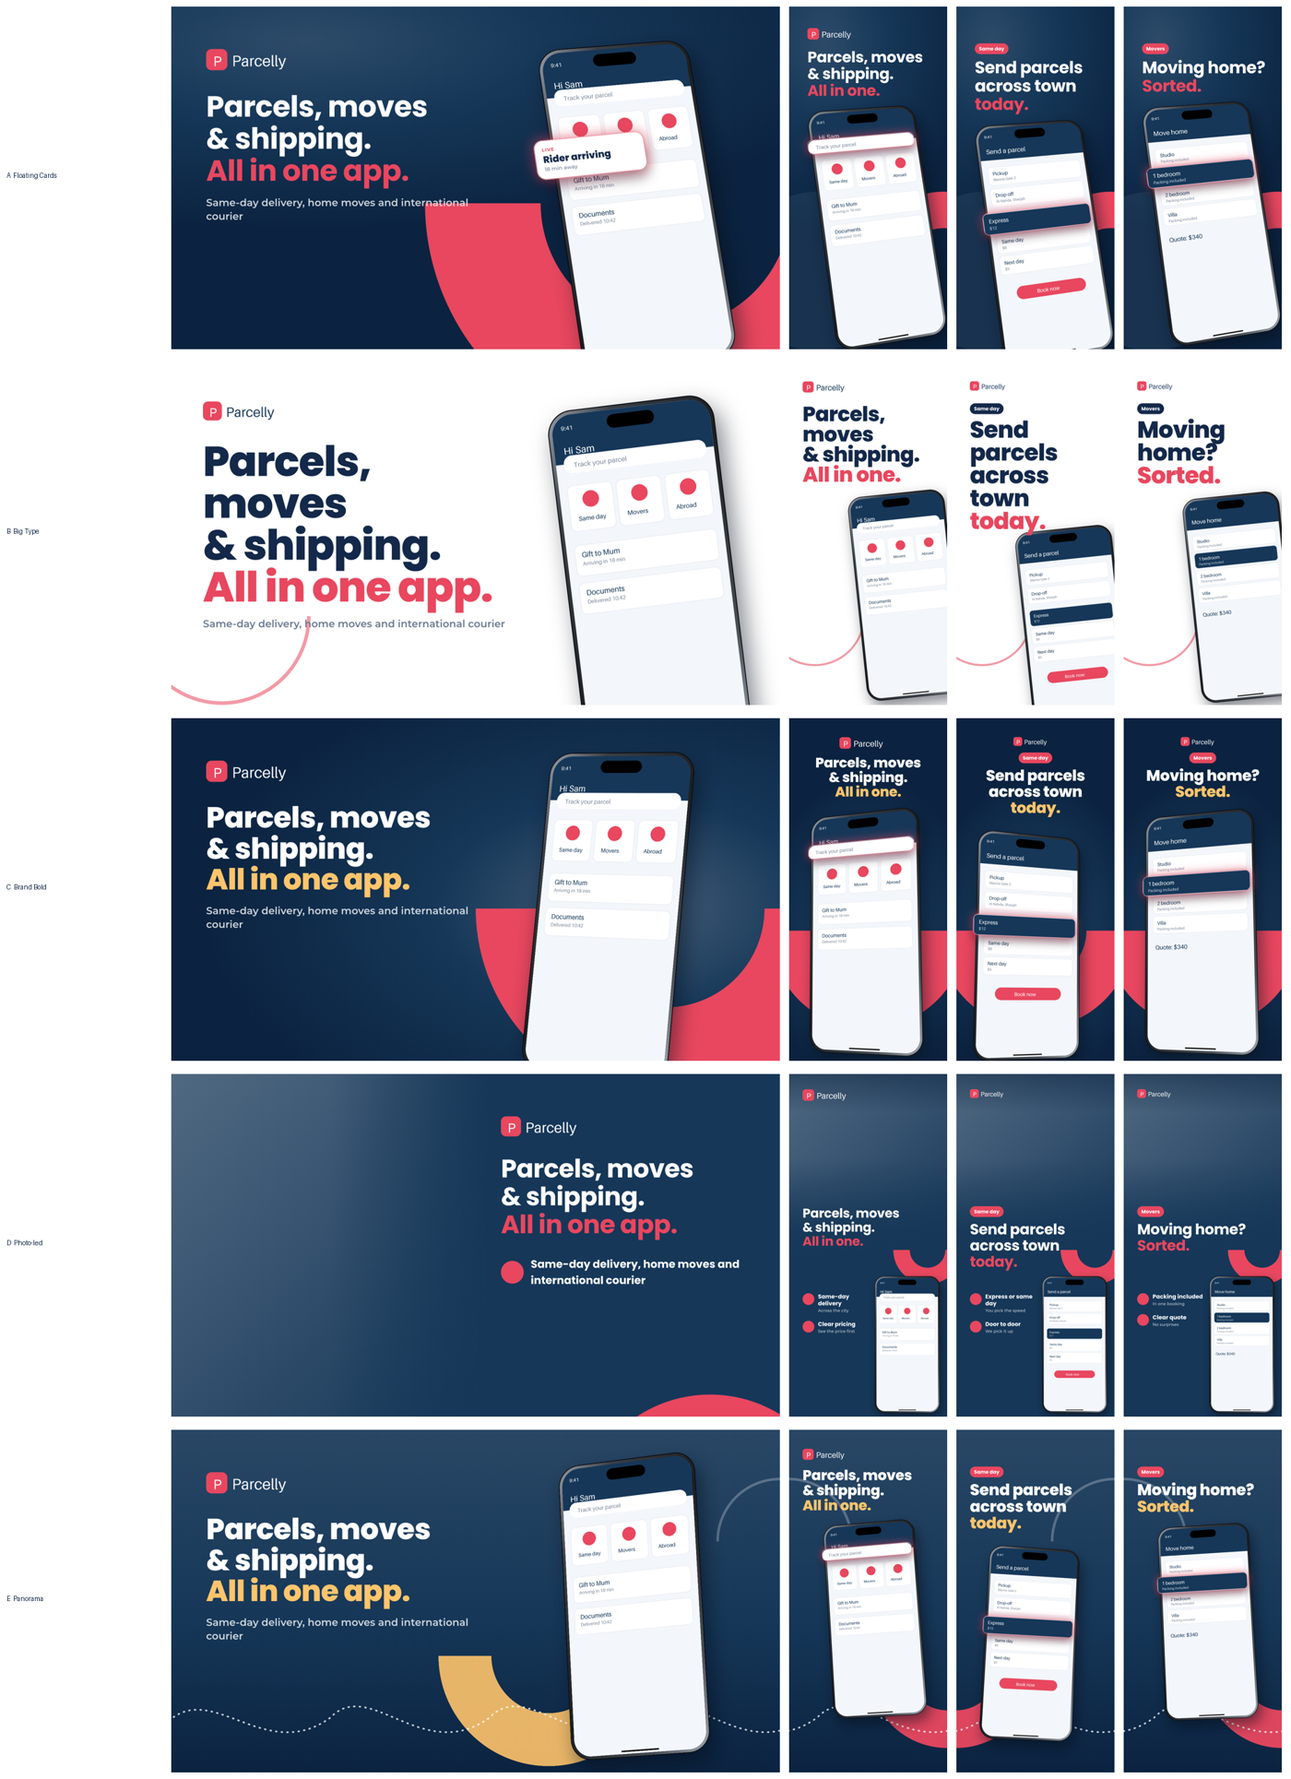
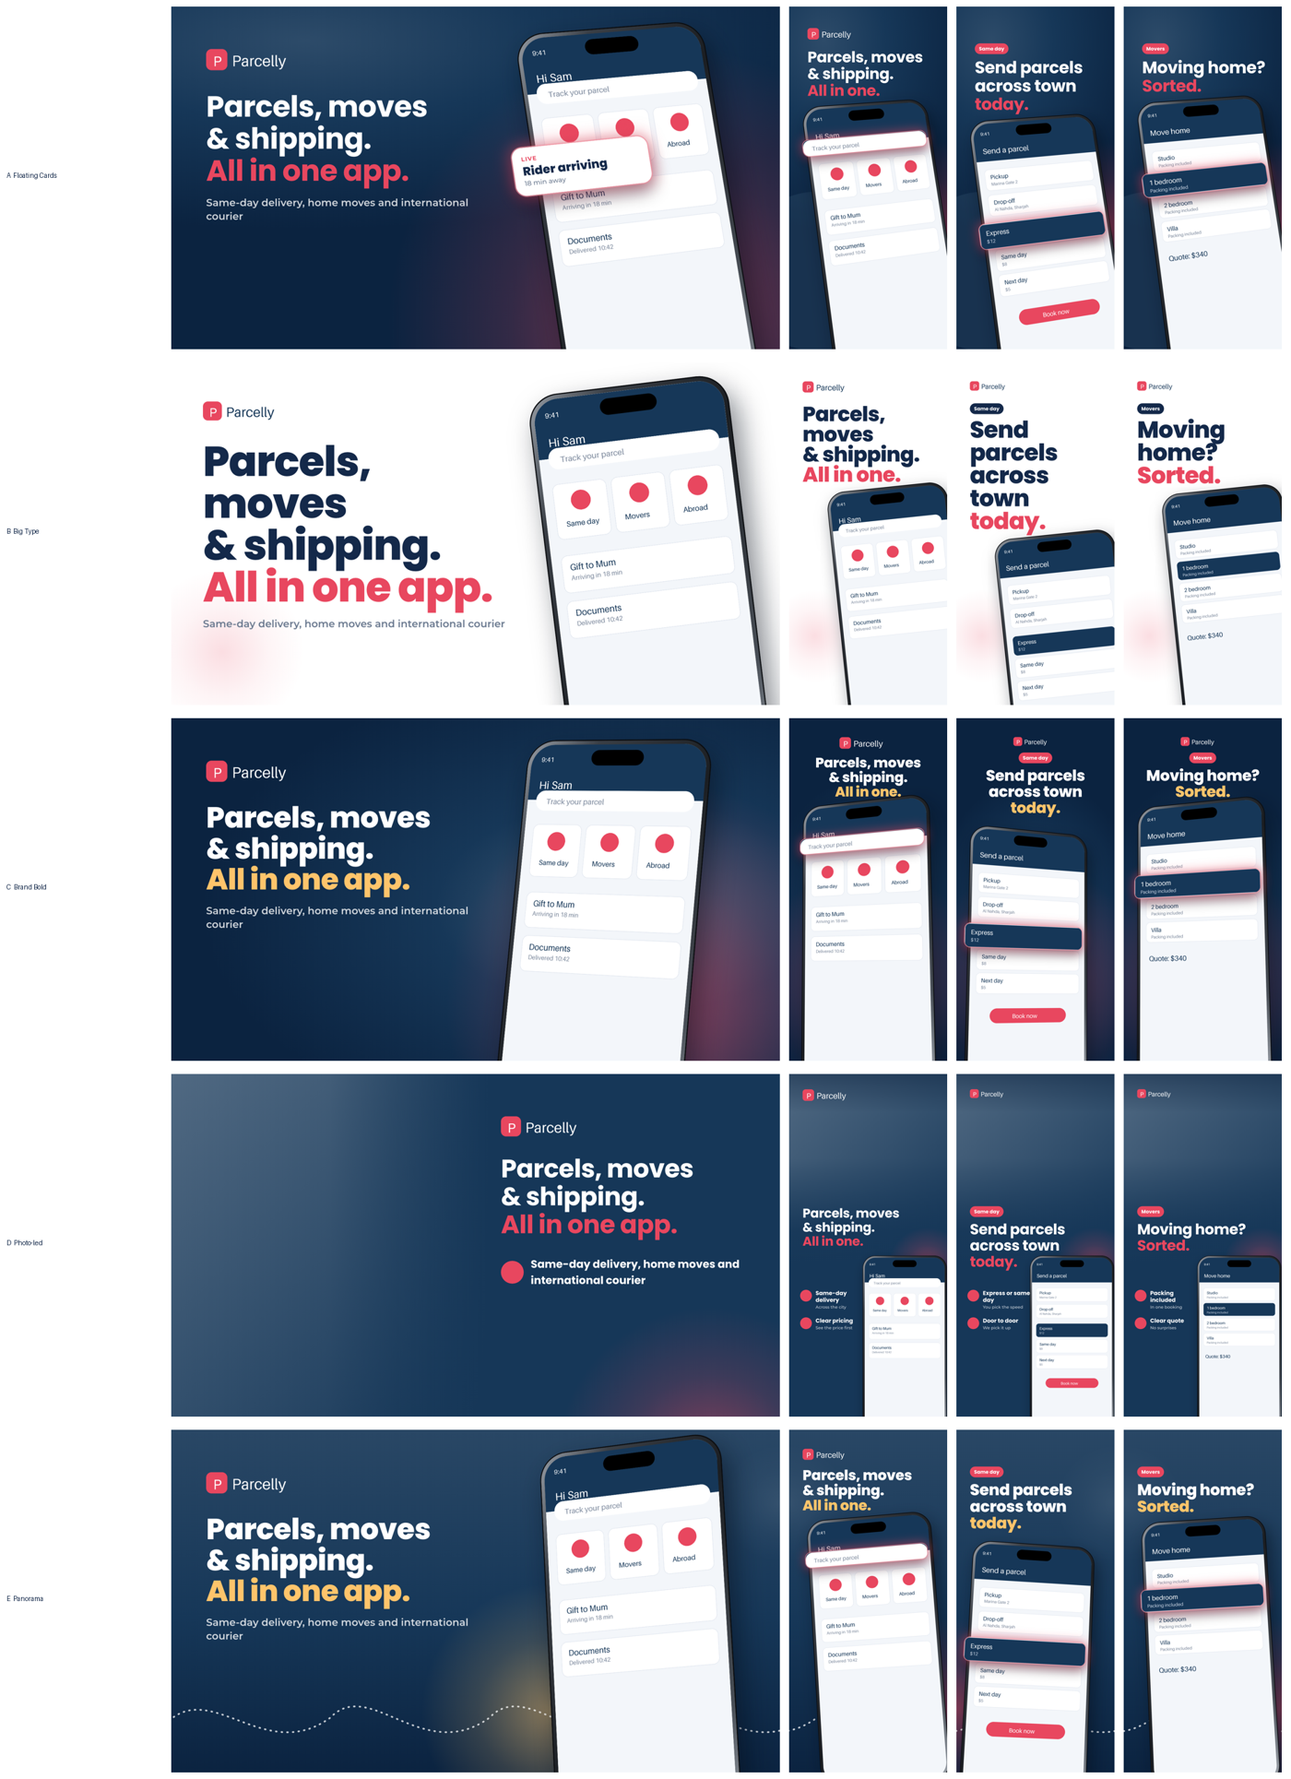
Brand-neutral design language intake, configurable motifs, larger phones
- Ask for Figma link, brand guidelines, logo, brand shapes and photos before designing
- Replace the fixed half-ring decoration with brand.motif: glow (default), blob, ring, dots, arc, none, custom
- Enlarge phones in every direction and landscape lead

diff --git a/engine/engine.js b/engine/engine.js
@@ -39,12 +39,27 @@
     : textCard(c, i)).join('');
   const phone3d = (f, x, y, s, ry, rx, rz, cards = true) => `<div class="stage" style="left:${x}px;top:${y}px"><div class="tilt" style="transform:rotateZ(${rz}deg) rotateY(${ry}deg) rotateX(${rx}deg) scale(${s})">${phoneHTML(f.screen)}${cards ? cardsHTML(f) : ''}</div></div>`;
   const flatPhone = (f, x, y, s, rot) => `<div class="flat" style="left:${x}px;top:${y}px;transform:rotate(${rot}deg) scale(${s})">${phoneHTML(f.screen)}</div>`;
-  const arc = (cx, top, R, rot, color, op = 1, band = .48) => `<div class="arc" style="left:${cx - R}px;top:${top}px;width:${2 * R}px;height:${R}px;background:radial-gradient(circle at 50% 0,transparent ${R * (1 - band) - 1}px,${color} ${R * (1 - band)}px,${color} ${R - 1}px,transparent ${R}px);transform:rotate(${rot}deg);opacity:${op}"></div>`;
-  const ring = (cx, top, R, rot, color, op = 1) => arc(cx, top, R, rot, color, op, .04);
+  const arcShape = (cx, top, R, rot, color, op = 1, band = .48) => `<div class="arc" style="left:${cx - R}px;top:${top}px;width:${2 * R}px;height:${R}px;background:radial-gradient(circle at 50% 0,transparent ${R * (1 - band) - 1}px,${color} ${R * (1 - band)}px,${color} ${R - 1}px,transparent ${R}px);transform:rotate(${rot}deg);opacity:${op}"></div>`;
+  const ringShape = (cx, top, R, rot, color, op = 1) => arcShape(cx, top, R, rot, color, op, .04);
+  // Decoration follows the brand's own design language: brand.motif = glow (default) | blob | ring | dots | arc | custom | none
+  const MOTIF = (B.motif || (B.motif_image ? 'custom' : 'glow')).toLowerCase();
+  function deco(cx, top, R, rot, color, op = 1) {
+    switch (MOTIF) {
+      case 'none': return '';
+      case 'arc': return arcShape(cx, top, R, rot, color, op);
+      case 'ring': return `<div class="arc" style="left:${cx - R}px;top:${top - R * .5}px;width:${2 * R}px;height:${2 * R}px;border-radius:50%;border:${Math.round(R * .09)}px solid ${color};opacity:${op * .9}"></div>`;
+      case 'blob': return `<div class="arc" style="left:${cx - R * .8}px;top:${top - R * .3}px;width:${1.6 * R}px;height:${1.45 * R}px;border-radius:42% 58% 63% 37% / 41% 44% 56% 59%;background:${color};transform:rotate(${rot}deg);opacity:${op}"></div>`;
+      case 'dots': return `<div class="arc" style="left:${cx - R * .8}px;top:${top - R * .2}px;width:${1.6 * R}px;height:${1.6 * R}px;background:radial-gradient(${color} 22%,transparent 24%) 0 0/56px 56px;-webkit-mask:radial-gradient(circle,#000 30%,transparent 70%);opacity:${op * .8}"></div>`;
+      case 'custom': return B.motif_image ? `<img class="arc" src="${B.motif_image}" style="left:${cx - R}px;top:${top - R * .2}px;width:${2 * R}px;transform:rotate(${rot}deg);opacity:${op}">` : '';
+      default: return `<div class="arc" style="left:${cx - R * 1.2}px;top:${top - R * .7}px;width:${2.4 * R}px;height:${2.4 * R}px;border-radius:50%;background:radial-gradient(circle,${rgba(color, .55)} 0%,${rgba(color, .18)} 38%,${rgba(color, 0)} 68%);opacity:${op}"></div>`;
+    }
+  }
+  const arc = (cx, top, R, rot, color, op = 1) => deco(cx, top, R, rot, color, op);
+  const ring = (cx, top, R, rot, color, op = 1) => (MOTIF === 'arc' ? ringShape(cx, top, R, rot, color, op) : ['ring', 'dots', 'blob', 'glow'].includes(MOTIF) ? deco(cx, top, R * .8, rot, color, op * .6) : '');
   const blob = (x, y, d, c, op) => `<div class="arc" style="left:${x}px;top:${y}px;width:${d}px;height:${d}px;border-radius:50%;background:${c};opacity:${op}"></div>`;
   const BG_DARK = `radial-gradient(ellipse 95% 55% at 22% 10%,${mix(PR, '#ffffff', .1)} 0%,${PR} 42%,${DK} 100%)`;
   const BG_LIGHT = `radial-gradient(ellipse 80% 60% at 60% 60%,#ffffff 0%,${mix(LT, '#ffffff', .5)} 45%,${LT} 100%)`;
-  const tall = H >= 2600, ps = tall ? 1.04 : .92, hs = tall ? 1 : .8;
+  const tall = H >= 2600, ps = tall ? 1.22 : 1.08, hs = tall ? 1 : .8;
   const photo = i => { const p = C.photos || []; return p.length ? p[i % p.length] : null; };
   const pts = f => f.points || (f.sub ? [[f.sub, '']] : []);
 
@@ -59,7 +74,7 @@
         ${i === 0 ? `<div style="margin-bottom:70px">${logo(!light, 104)}</div>` : ''}${tag(f, AC)}
         ${head(f, { size: LONG(f) ? 124 : 136, color: light ? TX : '#fff', accent: AC, weight: 700, lh: 1.1 })}
         ${sub(f, { size: 46, color: light ? '#6b7a90' : 'rgba(255,255,255,.78)' })}</div>
-      ${phone3d(f, 140, 0, ps, 10, 5, -7)}` };
+      ${phone3d(f, 95, 0, ps, 10, 5, -7)}` };
   };
   P.bigtype = (f, i) => ({ bg: '#ffffff', html: `
       ${ring(210, H * .74, 410, 0, AC, .55)}
@@ -67,7 +82,7 @@
         <div style="margin-bottom:${i === 0 ? 90 : 100}px">${logo(false, i === 0 ? 100 : 84)}</div>${tag(f, TX)}
         ${head(f, { size: LONG(f) ? 168 : 190, color: TX, accent: AC, lh: .98, ls: '-.02em' })}
         ${sub(f, { size: 50, color: '#6b7a90', mt: 44 })}</div>
-      ${flatPhone(f, 470, 0, tall ? .9 : .8, -6)}` });
+      ${flatPhone(f, 300, 0, tall ? 1.12 : 1, -6)}` });
   P.brandbold = (f, i) => {
     const r = [[-16, 6], [14, 5], [-14, 6]][i % 3];
     return { bg: `radial-gradient(ellipse 70% 45% at 50% 62%,${mix(PR, '#ffffff', .2)} 0%,${PR} 45%,${DK} 100%)`, html: `
@@ -75,7 +90,7 @@
       <div class="txt" style="left:90px;right:90px;top:150px;text-align:center">
         <div style="display:flex;justify-content:center;margin-bottom:50px">${logo(true, i === 0 ? 104 : 80)}</div>${tag(f, AC)}
         ${head(f, { size: LONG(f) ? 112 : 124, color: '#fff', accent: AC2, align: 'center' })}</div>
-      ${phone3d(f, 180, 0, tall ? 1 : .88, r[0], r[1], r[0] > 0 ? 2 : -2)}` };
+      ${phone3d(f, 115, 0, tall ? 1.16 : 1.02, r[0], r[1], r[0] > 0 ? 2 : -2)}` };
   };
   P.photo = (f, i) => {
     const ph = photo(i), top = H * .56;
@@ -85,8 +100,8 @@
       ${arc(1130, top - 130, 280, 0, AC)}
       <div class="txt" style="left:110px;top:120px">${logo(true, i === 0 ? 104 : 80)}</div>
       <div class="arc" style="left:110px;right:90px;top:${H * .386}px;z-index:5">${tag(f, AC)}${head(f, { size: LONG(f) ? 104 : 120, color: '#fff', accent: AC, weight: 700, lh: 1.1 })}</div>
-      <div class="arc" style="left:110px;top:${H * .64}px;width:560px;z-index:5">${pts(f).slice(0, 2).map(([a, b]) => `<div style="display:flex;gap:30px;align-items:flex-start;margin-bottom:60px"><div style="width:96px;height:96px;border-radius:50%;background:${AC};flex:none"></div><div><div style="font:700 46px/1.2 ${FH};color:#fff">${a}</div>${b ? `<div style="font:500 34px/1.35 ${FB};color:rgba(255,255,255,.75);margin-top:8px">${b}</div>` : ''}</div></div>`).join('')}</div>
-      ${flatPhone(f, 700, H * .59, tall ? .6 : .52, 0)}` };
+      <div class="arc" style="left:90px;top:${H * .63}px;width:520px;z-index:5">${pts(f).slice(0, 2).map(([a, b]) => `<div style="display:flex;gap:30px;align-items:flex-start;margin-bottom:60px"><div style="width:96px;height:96px;border-radius:50%;background:${AC};flex:none"></div><div><div style="font:700 46px/1.2 ${FH};color:#fff">${a}</div>${b ? `<div style="font:500 34px/1.35 ${FB};color:rgba(255,255,255,.75);margin-top:8px">${b}</div>` : ''}</div></div>`).join('')}</div>
+      ${flatPhone(f, 600, H * .53, tall ? .78 : .66, 0)}` };
   };
   // panorama: one continuous scene across the landscape lead + every portrait
   const LW = H * 16 / 9;
@@ -107,7 +122,7 @@
       <div class="arc" style="left:${-(LW + i * W)}px;top:0;width:${total}px;height:${H}px">${scene(total)}</div>
       <div class="txt" style="left:110px;right:110px;top:${i === 0 ? 150 : 300}px">${i === 0 ? `<div style="margin-bottom:60px">${logo(true, 100)}</div>` : ''}${tag(f, AC)}
         ${head(f, { size: LONG(f) ? 116 : 128, color: '#fff', accent: AC2 })}${sub(f, { size: 46, color: 'rgba(255,255,255,.8)' })}</div>
-      ${phone3d(f, 275, 0, tall ? .84 : .74, [-4, 3, -3][i % 3], 4, [-4, 3, -3][i % 3])}` };
+      ${phone3d(f, 140, 0, tall ? 1.14 : 1, [-4, 3, -3][i % 3], 4, [-4, 3, -3][i % 3])}` };
   };
 
   // ---------- landscape leads (1920 x 1080) ----------
@@ -116,18 +131,18 @@
   const LF = () => C.landscape || C.frames[0];
   L.floating = f => { const light = (C.options || {}).floating_theme === 'light'; return { bg: light ? BG_LIGHT : BG_DARK, html: `
       ${arc(1560, 620, 760, 0, AC)}
-      <div class="txt" style="left:110px;top:130px;width:880px"><div style="margin-bottom:60px">${logo(!light, 74)}</div>
+      <div class="txt" style="left:110px;top:130px;width:860px"><div style="margin-bottom:60px">${logo(!light, 74)}</div>
         ${head(f, { land: 1,  size: 92, color: light ? TX : '#fff', accent: AC, weight: 700, lh: 1.1 })}${sub(f, { size: 32, color: light ? '#6b7a90' : 'rgba(255,255,255,.8)' })}</div>
-      ${phone3d(f, 1150, 140, .56, 12, 5, -8)}` }; };
+      ${phone3d(f, 1080, 90, .7, 12, 5, -8)}` }; };
   L.bigtype = f => ({ bg: '#ffffff', html: `${ring(160, 800, 280, 0, AC, .55)}
       <div class="txt" style="left:100px;top:120px;width:1000px"><div style="margin-bottom:60px">${logo(false, 66)}</div>
         ${head(f, { land: 1,  size: 132, color: TX, accent: AC, lh: 1, ls: '-.02em' })}${sub(f, { size: 32, color: '#6b7a90' })}</div>
-      ${flatPhone(f, 1180, 160, .6, -7)}` });
+      ${flatPhone(f, 1120, 110, .72, -7)}` });
   L.brandbold = f => ({ bg: `radial-gradient(ellipse 70% 70% at 75% 55%,${mix(PR, '#ffffff', .2)} 0%,${PR} 45%,${DK} 100%)`, html: `
       ${arc(1560, 600, 600, 0, AC)}
       <div class="txt" style="left:110px;top:130px;width:900px"><div style="margin-bottom:60px">${logo(true, 74)}</div>
         ${head(f, { land: 1,  size: 92, color: '#fff', accent: AC2 })}${sub(f, { size: 32, color: 'rgba(255,255,255,.8)' })}</div>
-      ${phone3d(f, 1200, 110, .54, -16, 4, 4, false)}` });
+      ${phone3d(f, 1130, 70, .68, -16, 4, 4, false)}` });
   L.photo = f => { const ph = photo(0); return { bg: PR, html: `
       <div class="arc" style="left:0;top:0;width:1000px;height:1080px;background:${ph ? `url('${ph}') center 20%/cover` : `linear-gradient(135deg,${mix(PR, '#ffffff', .25)},${PR})`}"></div>
       <div class="arc" style="left:0;top:0;width:1002px;height:1080px;background:linear-gradient(90deg,${rgba(PR, 0)} 50%,${PR} 100%)"></div>
@@ -139,7 +154,7 @@
       <div class="arc" style="left:0;top:0;width:${LW}px;height:${H}px;transform:scale(${s});transform-origin:0 0;overflow:hidden;background:linear-gradient(180deg,${mix(PR, '#ffffff', .08)} 0%,${PR} 55%,${DK} 100%)"><div class="arc" style="left:0;top:0;width:${total}px;height:${H}px">${scene(total)}</div></div>
       <div class="txt" style="left:110px;top:130px;width:900px"><div style="margin-bottom:60px">${logo(true, 74)}</div>
         ${head(f, { land: 1,  size: 92, color: '#fff', accent: AC2 })}${sub(f, { size: 32, color: 'rgba(255,255,255,.8)' })}</div>
-      ${phone3d(f, 1220, 120, .5, -12, 4, -4, false)}` }; };
+      ${phone3d(f, 1160, 80, .66, -12, 4, -4, false)}` }; };
 
   // ---------- compose ----------
   const o = document.getElementById('o');
@@ -158,8 +173,8 @@
     document.querySelectorAll('.frame[data-fit]').forEach(fr => {
       const t = fr.querySelector('.txt'), st = fr.querySelector('.stage, .flat');
       if (!t || !st || DIR === 'photo') return;
-      const min = DIR === 'brandbold' ? 820 : 760;
-      st.style.top = Math.max(min, Math.min(H * .6, t.offsetTop + t.offsetHeight + 110)) + 'px';
+      const min = 700;
+      st.style.top = Math.max(min, Math.min(H * .52, t.offsetTop + t.offsetHeight + 70)) + 'px';
     });
   }
   const jobs = [...document.querySelectorAll('.crop')].map(el => new Promise(res => {

diff --git a/SKILL.md b/SKILL.md
@@ -1,6 +1,6 @@
 ---
 name: aso-screenshot-studio
-description: Design App Store and Google Play screenshot sets for any mobile app. Ask for the app name, website and store links, research the brand and listing, write the screenshot copy, render 5 design directions to choose from, then build the full iOS + Android set (6–7 portrait screenshots, Play landscape lead, feature graphic) as upload-ready PNGs plus a review PDF. Use when someone asks for store screenshots, ASO creatives, app store graphics, custom product pages / custom store listing visuals, or a Play feature graphic.
+description: Design App Store and Google Play screenshot sets for any mobile app, in the app's own brand. Ask for the app name, website, store links and any design language (Figma link, brand guidelines, logo, brand shapes, photos), research the brand and listing, write the screenshot copy, render 5 design directions to choose from, then build the full iOS + Android set (6–7 portrait screenshots, Play landscape lead, feature graphic) as upload-ready PNGs plus a review PDF. Use when someone asks for store screenshots, ASO creatives, app store graphics, custom product pages / custom store listing visuals, or a Play feature graphic.
 ---
 
 # ASO Screenshot Studio
@@ -20,18 +20,28 @@ Requirements: Google Chrome or Chromium, Python 3.8+, Pillow (`pip install pillo
 ## Workflow
 
 ### 1. Ask for the inputs (one message)
-Ask the user for:
-1. **App name** (and a short project name for the output folder if different).
-2. **Website URL.**
-3. **Store links:** App Store and/or Google Play URL. One is enough.
-4. **Real app screens** (strongly recommended): 5–7 raw phone screenshots of the main flows. Without them the set can only use the store's current screenshots.
-5. Optional: brand guidelines / logo files / photos of real people, the market (country), and any copy they must use.
+This skill is brand-neutral: it must never reuse another client's shapes, colours or layouts. Everything visual comes from the user's own brand. Ask, in one message:
+1. **App name** (and a project name for the output folder).
+2. **Website URL** and **store links** (App Store and/or Google Play; one is enough).
+3. **Design language — do you have any of these?** (share whatever exists)
+   - a **Figma link** (brand file, design system or app designs)
+   - **brand guidelines** (PDF / link) with colours, fonts and logo rules
+   - **logo files** (a white version for dark backgrounds and a colour version)
+   - **brand shapes / patterns / illustrations** they use in ads (e.g. a signature curve, icon set, texture)
+   - **photos** of real people, vehicles or products they own
+   - reference apps or screenshots whose style they like
+4. **Real app screens:** 5–7 raw phone screenshots of the main flows (much better than the store's existing marketing images).
+5. Market/country and any copy that must be used.
 
-If something is missing, continue with what you have and say what the gap costs.
+Use what they give:
+- **Figma link:** if the Figma MCP is connected, read it (`get_metadata`, `get_screenshot`, `get_variable_defs` for colours/type, export logos and screens with `get_screenshot` or download_assets). If it isn't connected, ask them to sign in to Figma via `/mcp`, or to export the logo and screens as PNG.
+- **Guidelines PDF:** read the colour codes, fonts, logo rules and any signature shape; note do's and don'ts and follow them.
+- **Brand shape:** save it as a transparent PNG/SVG and set `brand.motif = "custom"` with `brand.motif_image`. Otherwise pick a neutral motif (`glow`, `blob`, `ring`, `dots`, `none`) that suits the brand — see `references/config.md`.
+- **Nothing supplied:** derive colours, fonts and logo from the website (step 2) and use `motif: "glow"`. Say so, and that the result will be more generic than with their real brand assets.
 
 ### 2. Research
 - Run `python3 scripts/fetch_store.py --play <url> --appstore <url> --website <url> --country <cc>` and read the result: listing title, description, features, rating, genre, brand colours, Google Fonts, logo candidates.
-- Pick brand tokens: `primary` (dark brand colour for backgrounds), `accent` (the brand's bright colour), `accent2` (a warm secondary), fonts (use the site's Google Font if it has one, else Poppins/Montserrat). Check contrast: white text must read on `primary`.
+- Unless the user supplied guidelines/Figma, pick brand tokens: `primary` (dark brand colour for backgrounds), `accent` (the brand's bright colour), `accent2` (a warm secondary), fonts (use the site's Google Font if it has one, else Poppins/Montserrat). Check contrast: white text must read on `primary`.
 - **Downloading store screenshots, icons or logos needs the user's OK** (they belong to the app owner). When they agree, re-run with `--download <project>/assets/store`. Store screenshots are usually already-designed marketing frames; prefer raw screens from the user. If only marketing frames exist, tell the user the set will reuse them and look weaker.
 - Logo: prefer the user's file. Need a white version for dark backgrounds (`logo_light`) and a dark one (`logo_dark`). Without a logo, the engine sets the app name in the headline font.
 

diff --git a/README.md b/README.md
@@ -2,7 +2,7 @@
 
 A Claude Code skill that designs **App Store and Google Play screenshots** for any app.
 
-Give it an app name, the website and a store link. It reads the listing and the brand, writes the screenshot copy, shows you **5 design directions**, and once you pick one for iOS and one for Android, renders the full set as upload-ready PNGs plus a review PDF.
+Give it an app name, the website and a store link, plus any design language you have (Figma link, brand guidelines, logo, brand shapes, photos). It reads the listing and the brand, writes the screenshot copy, shows you **5 design directions**, and once you pick one for iOS and one for Android, renders the full set as upload-ready PNGs plus a review PDF.
 
 ![The five directions](docs/options_sheet.png)
 
@@ -44,6 +44,8 @@ python3 scripts/render.py build examples/demo/config.json /tmp/aso-demo --ios fl
 - `scripts/fetch_store.py` reads the Google Play page and the App Store (iTunes Lookup API) plus the website's colours, fonts and logo candidates.
 - Claude writes a `config.json` (brand tokens, screens, 6–7 frames of copy). Schema: [`references/config.md`](references/config.md).
 - `scripts/render.py` loads `engine/engine.js` in headless Chrome and screenshots each frame at exact store sizes.
+
+Nothing is hard-coded to one brand: colours, fonts, logo and the background motif (`glow`, `blob`, `ring`, `dots`, `arc`, `none`, or your own brand shape) all come from your design language.
 
 Tips: give it **raw app screens** (not the existing marketing screenshots) for the best result, and only put figures on cards that the app owner has confirmed. See [`references/copy-and-specs.md`](references/copy-and-specs.md).
 

diff --git a/references/config.md b/references/config.md
@@ -15,7 +15,10 @@ Paths are relative to the folder that holds `config.json`. Colours are hex.
     "font_head": "Poppins",    // any Google Font
     "font_body": "Montserrat",
     "logo_light": "assets/logo_white.png",   // for dark backgrounds
-    "logo_dark": "assets/logo_color.png"     // for light backgrounds
+    "logo_dark": "assets/logo_color.png",    // for light backgrounds
+    "motif": "glow",           // background decoration from the brand's design language:
+                               // glow (default) | blob | ring | dots | arc | none | custom
+    "motif_image": "assets/brand_shape.png"  // with "custom": the brand's own shape/pattern (transparent PNG/SVG)
   },
   "options": { "floating_theme": "dark" },     // or "light"
   "screens": { "home": "assets/screens/home.png", "book": "…" },   // raw app screenshots (any phone size)
@@ -51,3 +54,12 @@ To find a box: open the screenshot, note the pixel rectangle of one element, div
 { "type": "text", "label": "Live", "title": "Rider arriving", "sub": "18 min away", "pos": "left" }
 ```
 Only use figures the client has confirmed.
+
+## Choosing the motif
+Decoration must come from the client's own design language. If they have a signature shape (a curve, symbol, pattern, illustration), export it and use `custom`. Otherwise:
+- `glow` — soft light in the accent colour; neutral, works for any brand (default)
+- `blob` — organic shape; friendly consumer brands
+- `ring` — clean circle outline; fintech, utilities
+- `dots` — dot pattern; technical / B2B
+- `arc` — half-ring band; only if the brand actually uses an arc
+- `none` — just the gradient
